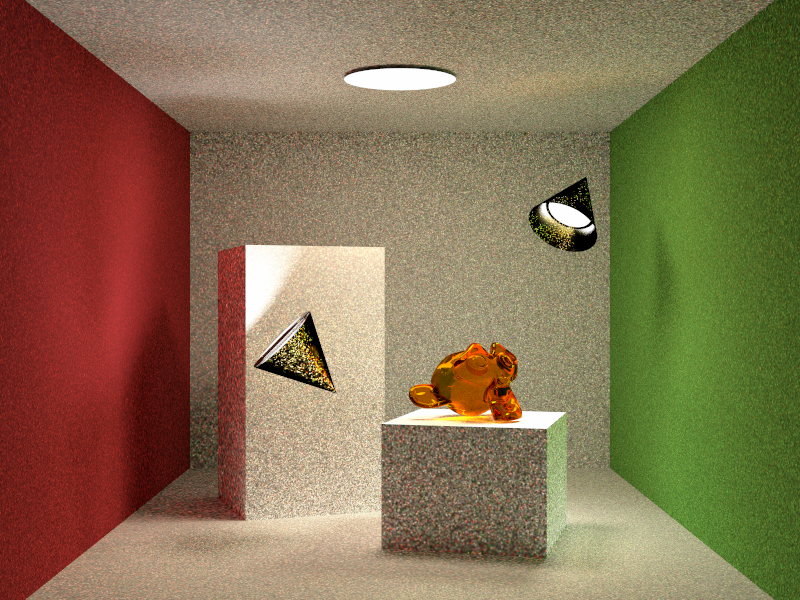
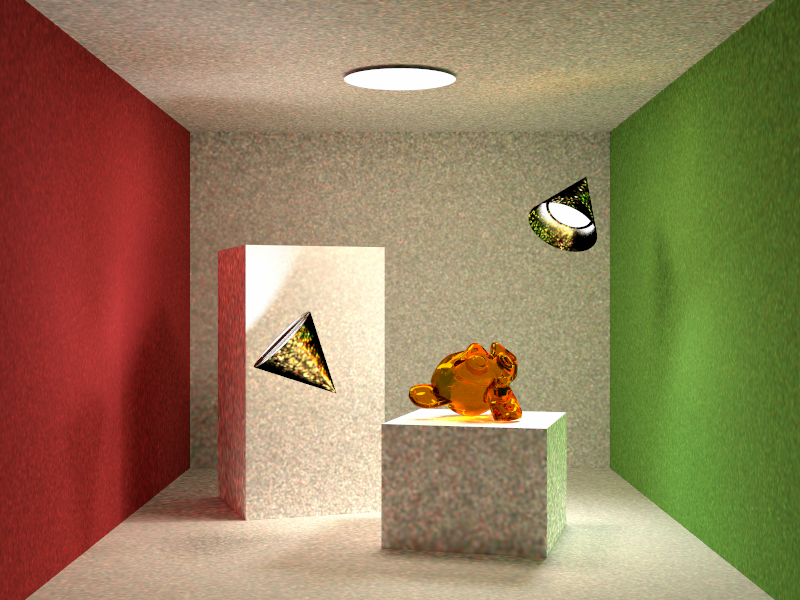
Adding stats on photon query info and bigger query big renders

diff --git a/courses/cs6620/prj13.html b/courses/cs6620/prj13.html
@@ -10,7 +10,10 @@ description: ""
 	<p>
 	Both scenes were rendered with 16/32 adaptive sampling, shooting 1M caustic
 	and 2M indirect photons. The scenes using final gathering were rendered with approximately
-	1M radiance photons and used 40 final gather samples.
+	1M radiance photons and used 40 final gather samples. The photon map lookups were done
+	for a search radius of 0.1 to query 50 photons. For all renders unless otherwise mentioned
+	the photon map is only used for indirect and caustic lighting effects, direct lighting is
+	sampled explicitly as usual.
 	</p>
 	<div class="col-lg-6 col-md-6" style="text-align:center">
 		<b>Cornell Box Gallery with gathering</b>
@@ -55,14 +58,12 @@ description: ""
 	<p>
 	The scenes below compare the results of shooting a huge number of photons vs. those achieved
 	with final gathering for significantly fewer (above). Both scenes below shot 15M caustic and 40M
-	indirect photons. I did also use a smaller search radius for photons when rendering these images
-	which is contributing to the noise, it'd probably look a lot better if I used more photons when
-	computing the indirect lighting.
+	indirect photons. The photon map lookups were done for a search radius of 1 to query 300 photons.
 	</p>
 	<div class="col-lg-6 col-md-6" style="text-align:center">
 		<b>Cornell Box Gallery with tons of photons, no gathering</b>
 		<p>
-		Pre-process: 00:03:23. Rendering: 00:05:18
+		Pre-process: 00:03:07. Rendering: 00:05:11
 		</p>
 		<a href="/courses/cs6620/prj13/cornell_spotlights_no_gather_big.png">
 			<img src="/courses/cs6620/prj13/cornell_spotlights_no_gather_big.png" class="img-responsive">
@@ -71,7 +72,7 @@ description: ""
 	<div class="col-lg-6 col-md-6" style="text-align:center">
 		<b>SmallPT Cornell Box with tons of photons, no gathering</b>
 		<p>
-		Pre-process: 00:04:55. Rendering: 00:07:26
+		Pre-process: 00:04:50. Rendering: 00:07:10
 		</p>
 		<a href="/courses/cs6620/prj13/smallpt_cornell_no_gather_big.png">
 			<img src="/courses/cs6620/prj13/smallpt_cornell_no_gather_big.png" class="img-responsive">
@@ -89,6 +90,7 @@ description: ""
 	the monkey head is a higher poly version of <a href="http://en.wikipedia.org/wiki/Blender_%28software%29#Suzanne">Blender's Suzanne</a>
 	created by taking the original Suzanne model and running it through a few rounds of subdivision and smoothing in Blender.
 	The teapot is the high res version of the Utah teapot.
+	The photon map lookups were done for a search radius of 0.65 to query 300 photons.
 	</p>
 	<div class="col-lg-6 col-md-6" style="text-align:center">
 		<b>Stanford Dragon</b>
@@ -138,9 +140,9 @@ description: ""
 </div>
 
 <div class="col-lg-12 col-md-12">
-	<h4>An Interesting Bug</h4>
+	<h4>A Neat Bug</h4>
 	<p>
-	This bug was a result of using a sequence to compute the ray directions for photons leaving the light,
+	This bug was the result of using a sequence to compute the ray directions for photons leaving the light
 	producing an interesting (but undesirable) pattern in the lighting. The image below was rendered with
     just the direct photons to easily showcase the issue.
 	</p>
